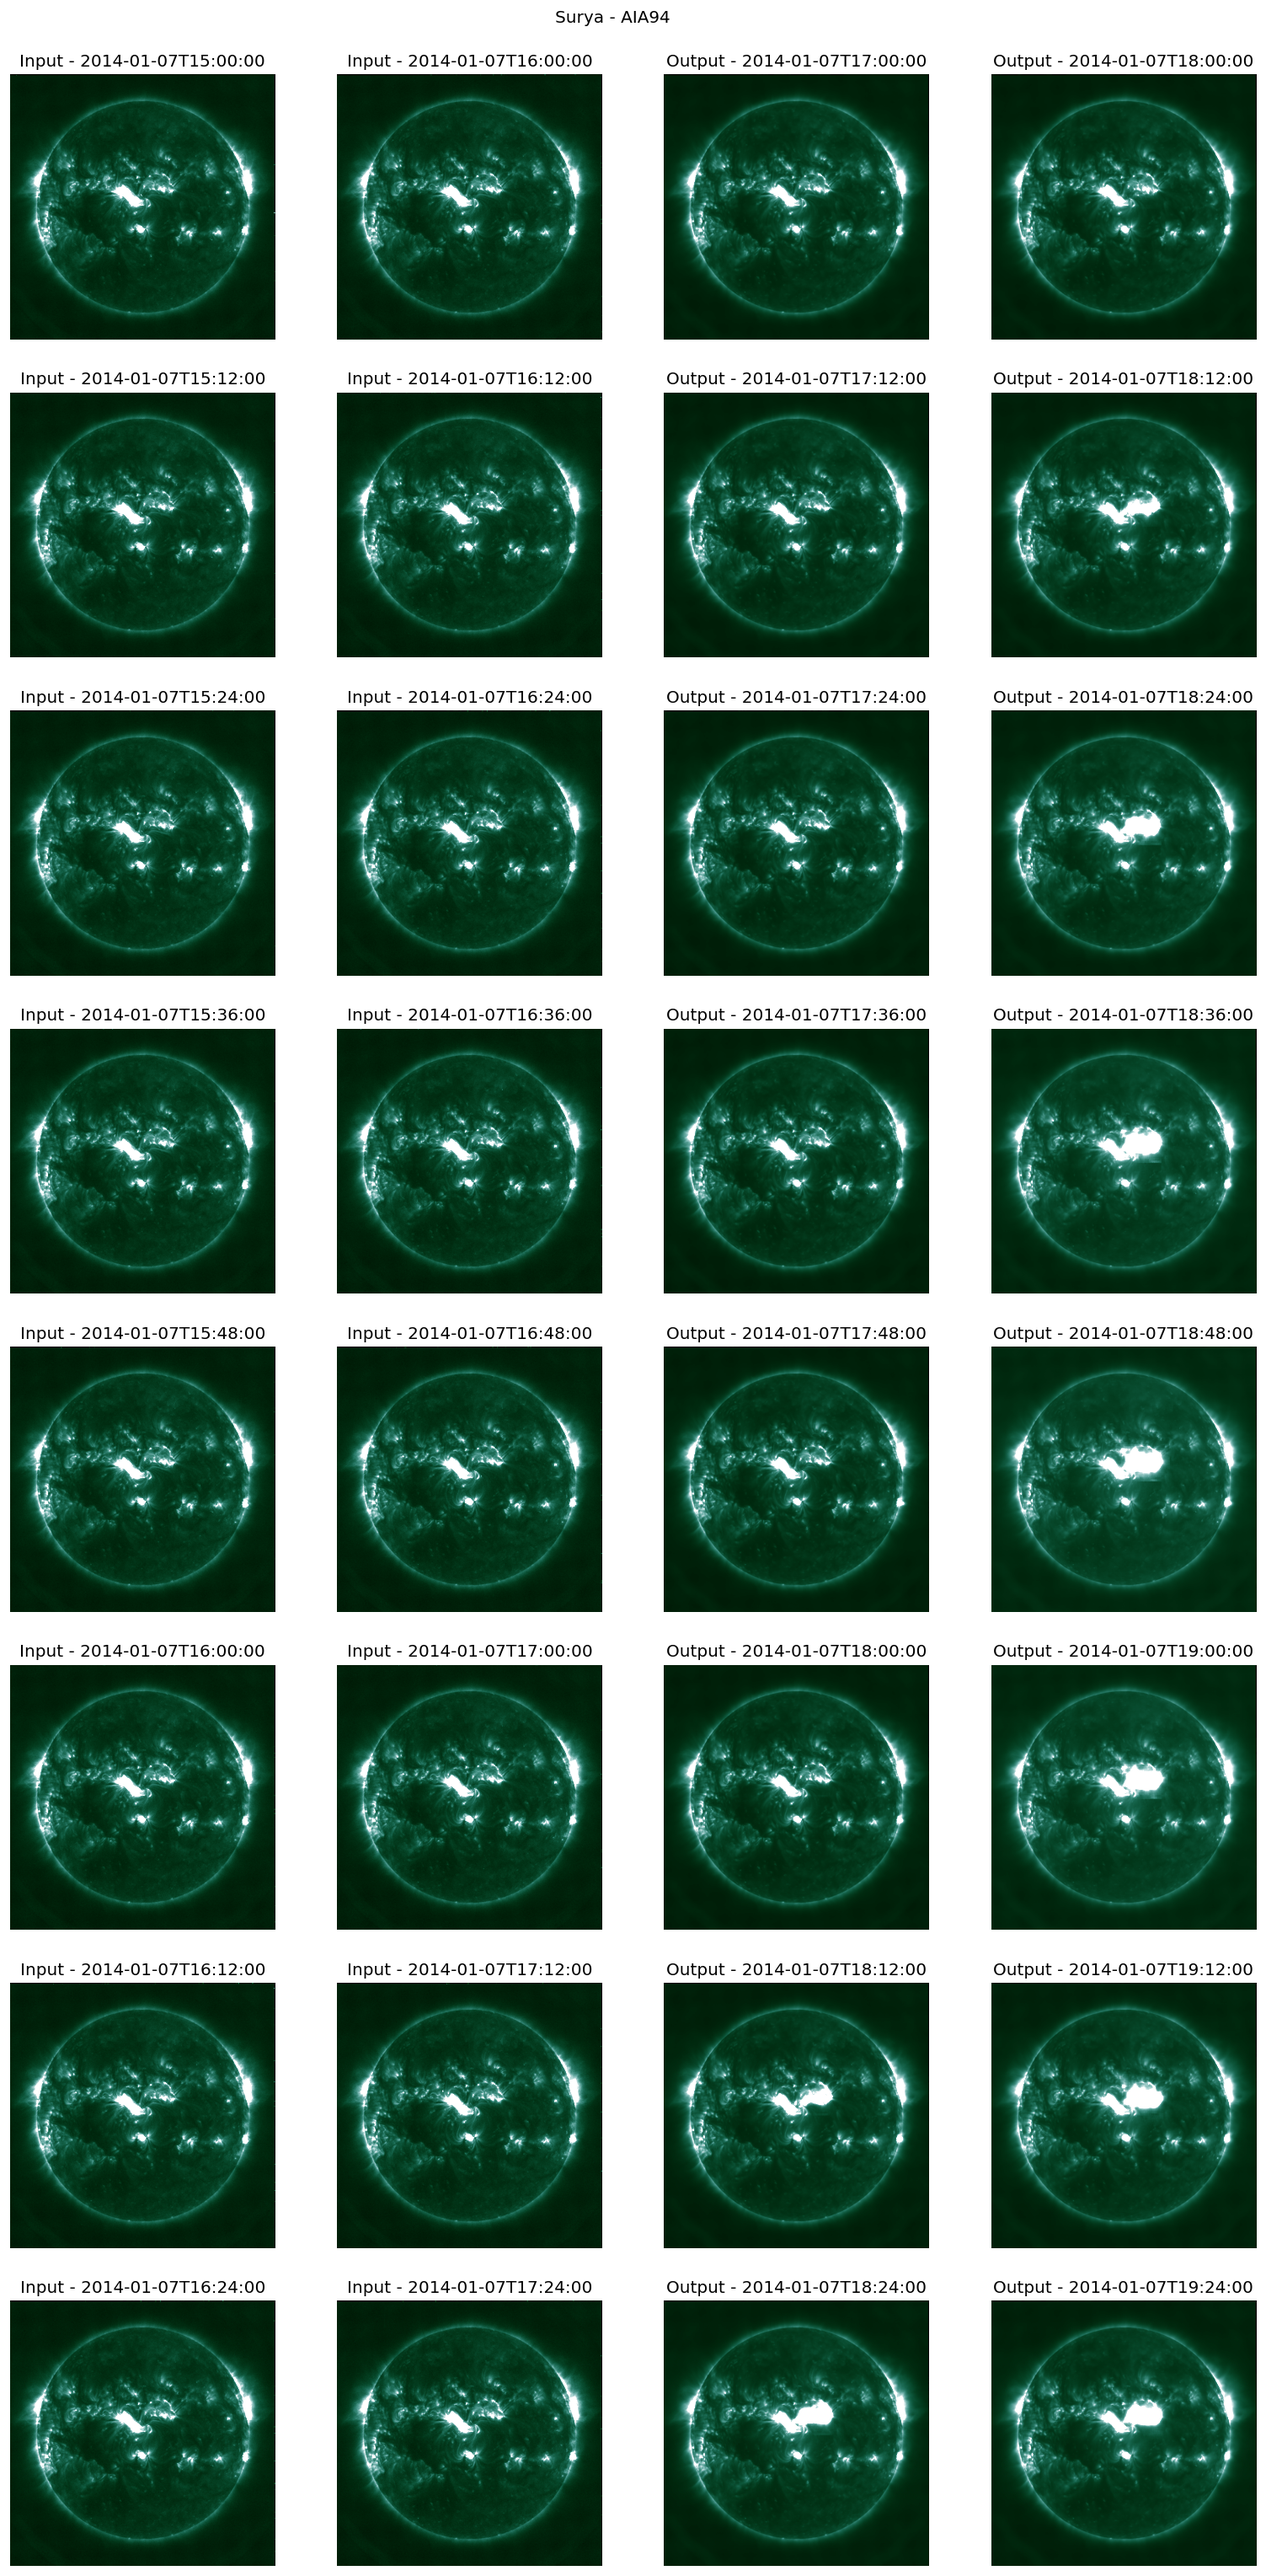
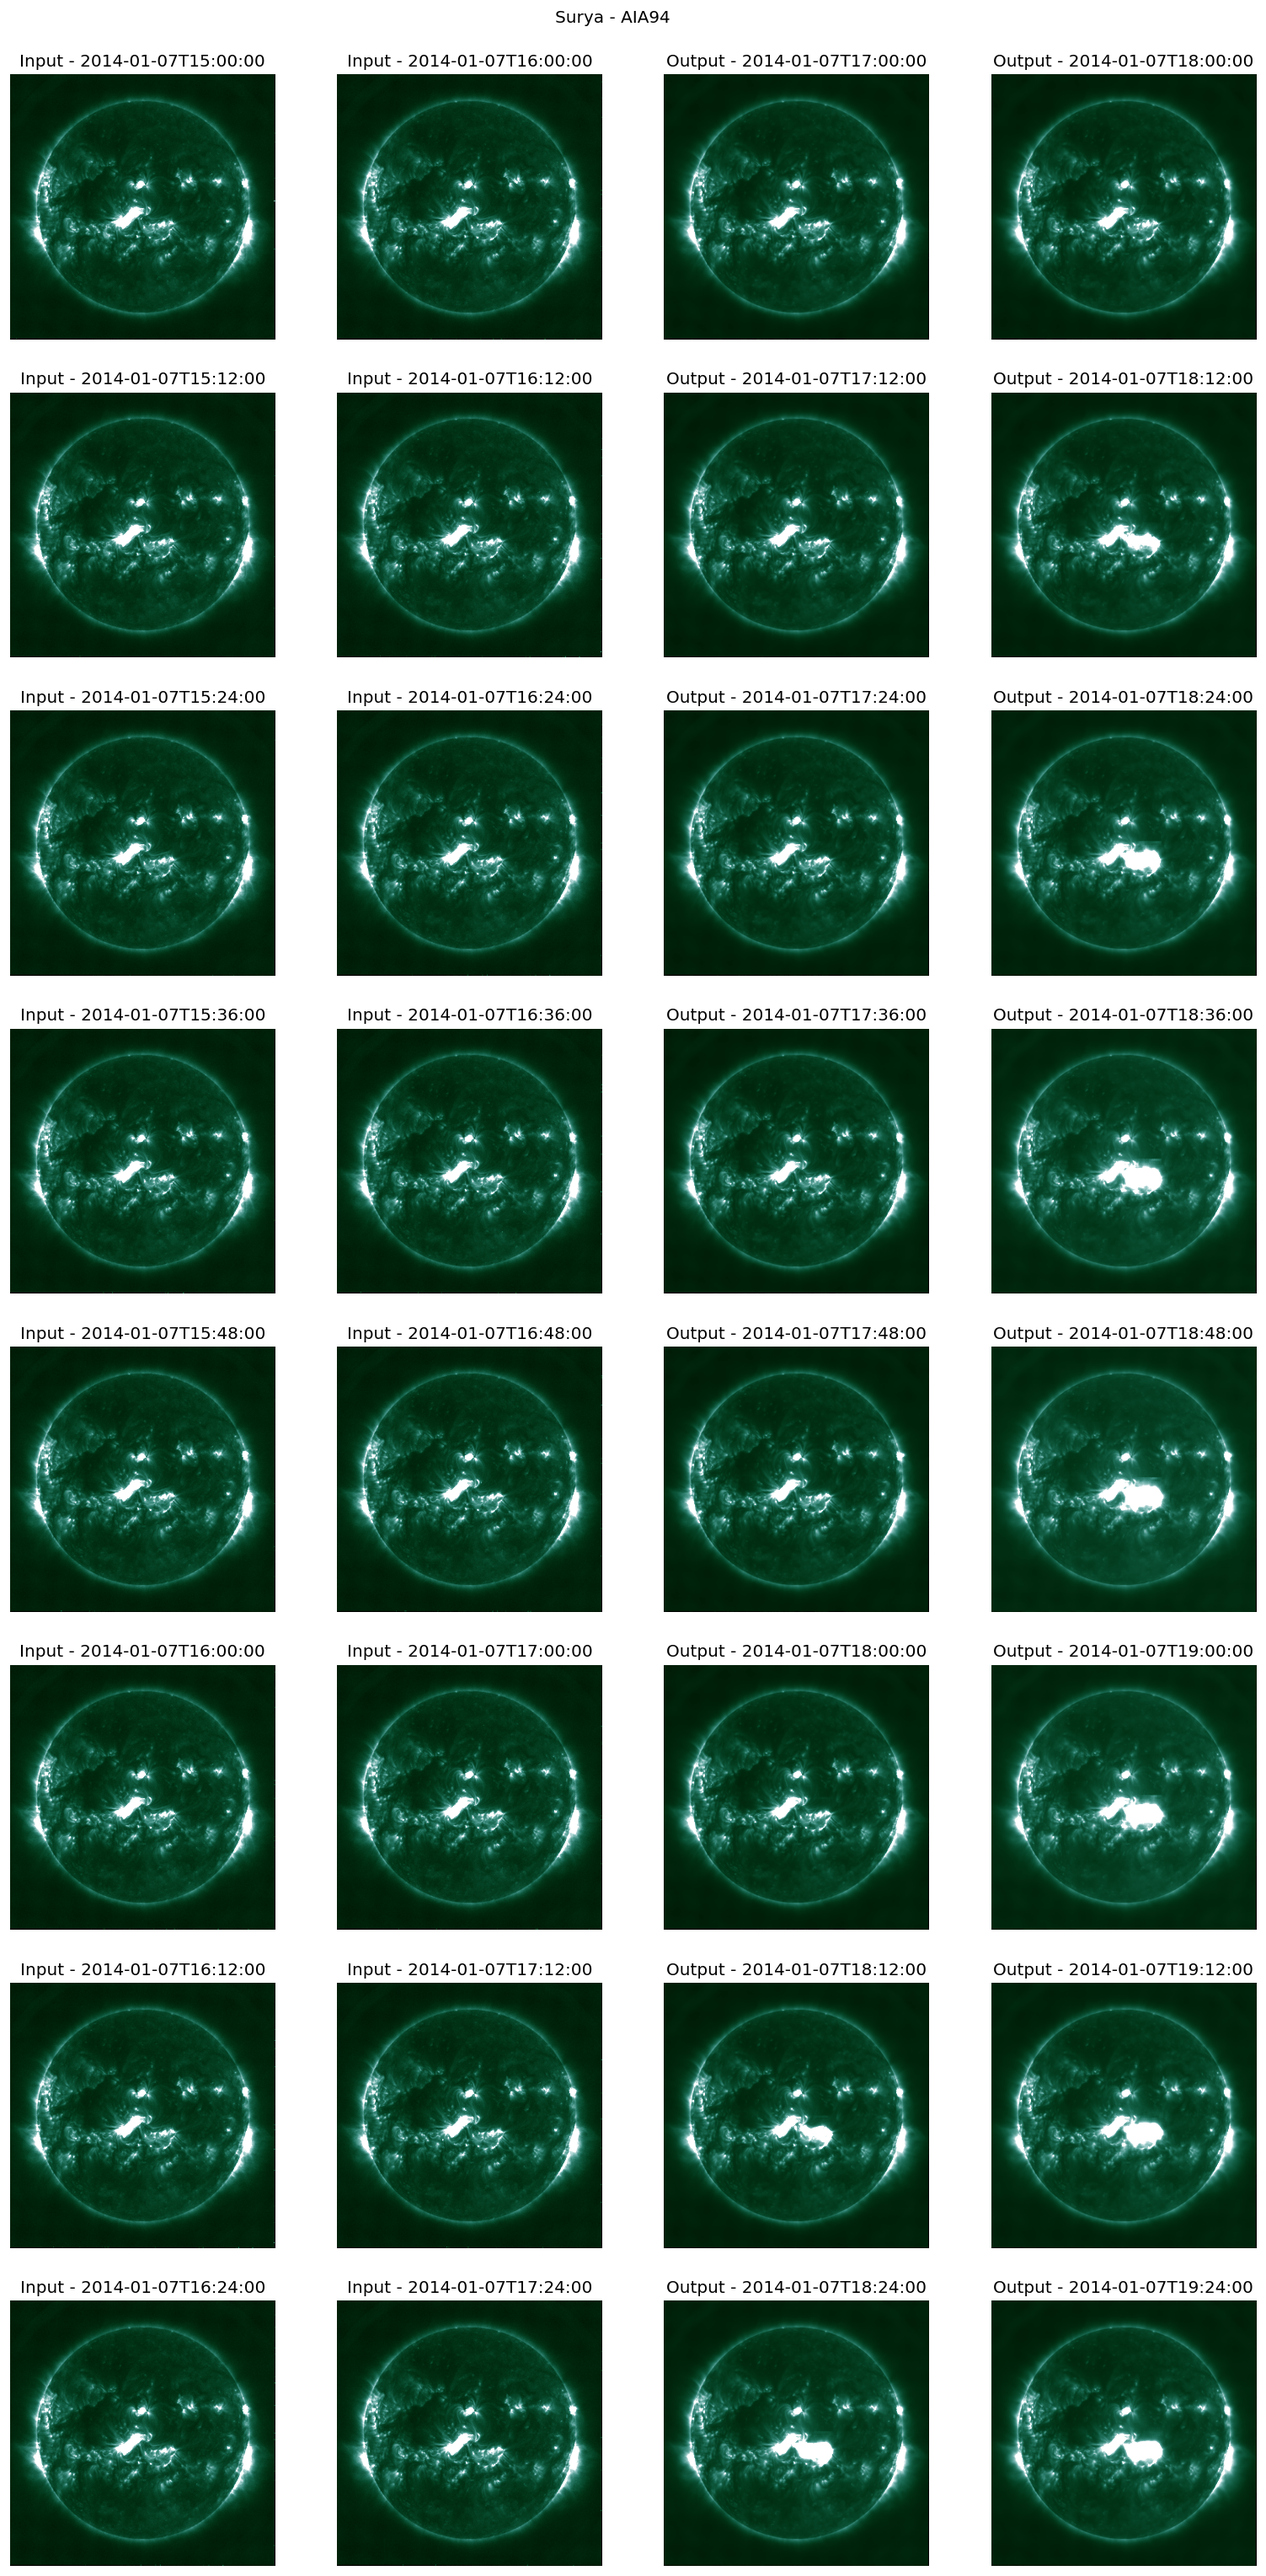
Fixes vertical orientation in plots.

diff --git a/tests/test_surya.py b/tests/test_surya.py
@@ -307,7 +307,7 @@ def test_surya_20140107(model: HelioSpectFormer, dataloader: DataLoader, caplog)
             vmin = max(vmin, sdo_image.data.min())
             vmax = min(vmax, np.quantile(sdo_image.data, 0.99))
 
-    plt_kwargs = {"vmin": vmin, "vmax": vmax, "cmap": sunpy_cm.cmlist["sdoaia94"]}
+    plt_kwargs = {"vmin": vmin, "vmax": vmax, "cmap": sunpy_cm.cmlist["sdoaia94"], "origin" : "lower"}
     fig, ax = plt.subplots(8, 4, figsize=(16, 32))
     for j in range(8):
         for i in range(4):
